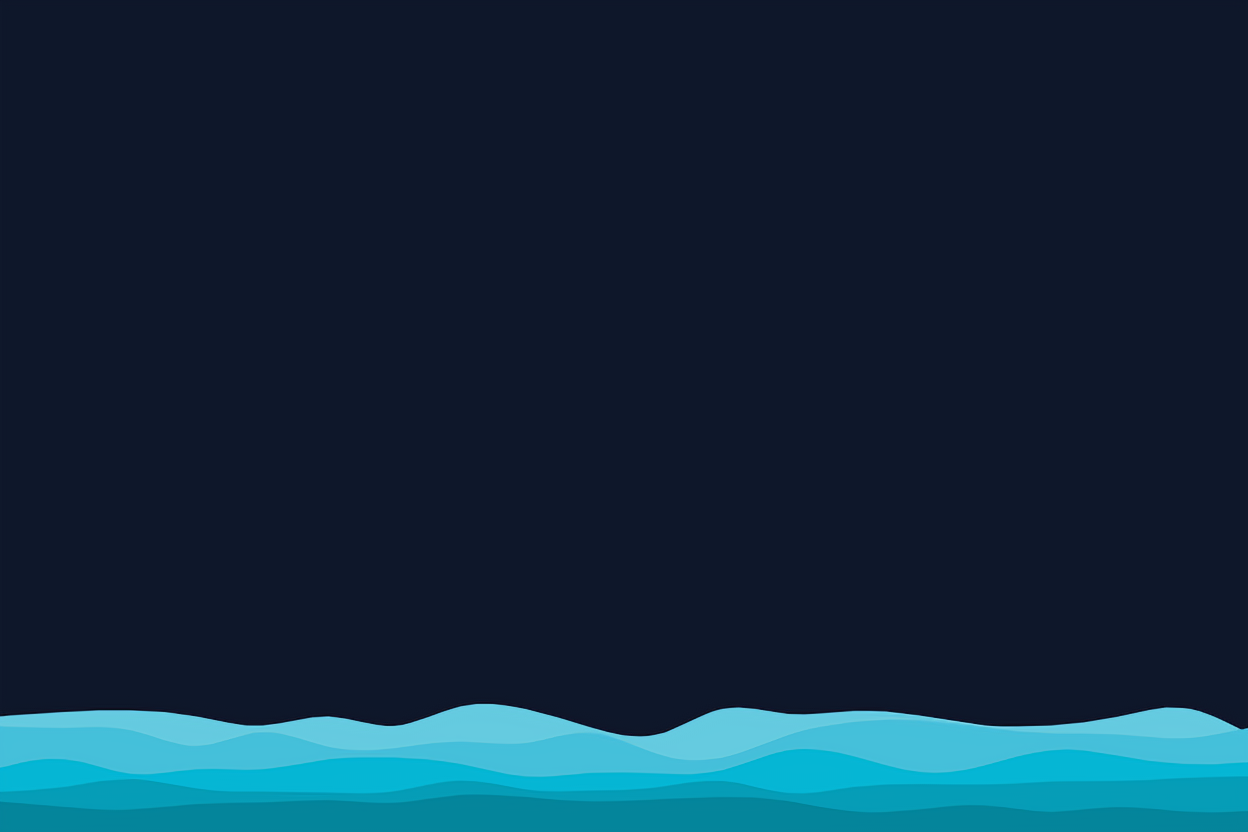
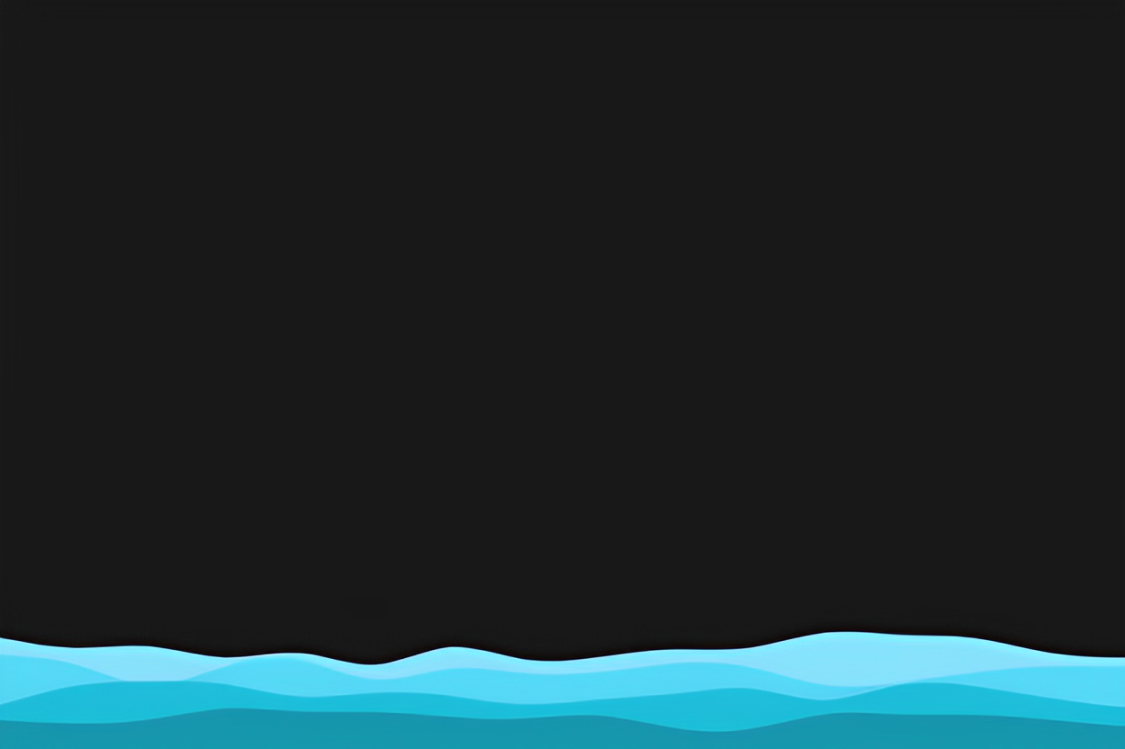
changes in background

Changed region(s): [[0.0, 0.8291, 1.0, 0.9826]]

diff --git a/src/components/Navbar/Navbar.tsx b/src/components/Navbar/Navbar.tsx
@@ -106,7 +106,7 @@ const Navbar = ({ ui, setUi }: TNavbarProps) => {
   return (
     <nav
       id="navbar"
-      className="z-[1] bg-violet-50 dark:bg-slate-900 flex px-[10rem] py-[1.5rem] max-w-[2048px] mx-auto sticky top-0 border-b-4 border-violet-950 dark:border-cyan-400 bg-clip-padding backdrop-filter backdrop-blur-sm bg-opacity-80 dark:bg-clip-padding dark:backdrop-filter dark:backdrop-blur-sm dark:bg-opacity-80"
+      className="z-[1] light-mode dark:dark-mode flex px-[10rem] py-[1.5rem] max-w-[2048px] mx-auto sticky top-0 border-b-4 border-violet-950 dark:border-cyan-400 bg-clip-padding backdrop-filter backdrop-blur-sm bg-opacity-80 dark:bg-clip-padding dark:backdrop-filter dark:backdrop-blur-sm dark:bg-opacity-80"
     >
       <div className="flex-1 flex justify-start items-center gap-[2rem]">
         <img

diff --git a/src/components/Projects/Projects.tsx b/src/components/Projects/Projects.tsx
@@ -11,7 +11,7 @@ const Projects = ({ ui }: TProjectsProps) => {
         <img className={`z-0 absolute top-0 left-0 right-0 bottom-0 transition-opacity duration-500 w-[100%] h-[100%] ${ui ? "opacity-0" : "opacity-100"}`} 
         src={AboutBGDarkBot} />
 
-        <h1 className="relative text-center dark:text-white text-slate-900 top-[50%] left-[50%] translate-x-[-50%] translate-y-[-50%]">PROJECTS</h1>
+        <h1 className="relative text-center dark:text-white text-neutral-900 top-[50%] left-[50%] translate-x-[-50%] translate-y-[-50%]">PROJECTS</h1>
 
       </div>
   )

diff --git a/src/components/Contact/Contact.tsx b/src/components/Contact/Contact.tsx
@@ -11,7 +11,7 @@ const Contact = ({ ui }: TContactProps) => {
         <img className={`z-0 absolute top-0 left-0 right-0 bottom-0 transition-opacity duration-500 w-[100%] h-[100%] ${ui ? "opacity-0" : "opacity-100"}`} 
         src={AboutBGDarkTop} />
 
-        <h1 className="relative text-center dark:text-white text-slate-900 top-[50%] left-[50%] translate-x-[-50%] translate-y-[-50%]">CONTACT</h1>
+        <h1 className="relative text-center dark:text-white text-neutral-900 top-[50%] left-[50%] translate-x-[-50%] translate-y-[-50%]">CONTACT</h1>
 
       </div>
   )

diff --git a/src/components/About/About.tsx b/src/components/About/About.tsx
@@ -11,7 +11,7 @@ const About = ({ ui }: TAboutProps) => {
         <img className={`z-0 absolute top-0 left-0 right-0 bottom-0 transition-opacity duration-500 w-[100%] h-[100%] ${ui ? "opacity-0" : "opacity-100"}`} 
         src={AboutBGDarkBot} />
 
-        <h1 className="relative text-center dark:text-white text-slate-900 top-[50%] left-[50%] translate-x-[-50%] translate-y-[-50%]">ABOUT</h1>
+        <h1 className="relative text-center dark:text-white text-neutral-900 top-[50%] left-[50%] translate-x-[-50%] translate-y-[-50%]">ABOUT</h1>
 
       </div>
   )

diff --git a/src/components/Skills/Skills.tsx b/src/components/Skills/Skills.tsx
@@ -11,7 +11,7 @@ const Skills = ({ ui }: TSkillsProps) => {
         <img className={`z-0 absolute top-0 left-0 right-0 bottom-0 transition-opacity duration-500 w-[100%] h-[100%] ${ui ? "opacity-0" : "opacity-100"}`} 
         src={AboutBGDarkTop} />
 
-      <h1 className="relative text-center dark:text-white text-slate-900 top-[50%] left-[50%] translate-x-[-50%] translate-y-[-50%]">SKILLS</h1>
+      <h1 className="relative text-center dark:text-white text-neutral-900 top-[50%] left-[50%] translate-x-[-50%] translate-y-[-50%]">SKILLS</h1>
 
     </div>
     )

diff --git a/src/App.tsx b/src/App.tsx
@@ -11,7 +11,7 @@ const App = () => {
   }, [ui]);
 
   return (
-    <div id="main" className="bg-violet-50 dark:bg-slate-900">
+    <div id="main" className="bg-violet-50 dark:dark-mode">
       <Navbar ui={ui} setUi={setUi} />
       <About ui={ui} />
       <Skills ui={ui} />

diff --git a/src/index.css b/src/index.css
@@ -11,6 +11,14 @@
     @apply transition ease-in-out duration-500 scroll-smooth;
   }
 
+  .dark-mode {
+    @apply bg-neutral-900
+  }
+
+  .light-mode {
+    @apply bg-violet-50
+  }
+
   h1 {
     @apply text-5xl;
   }
